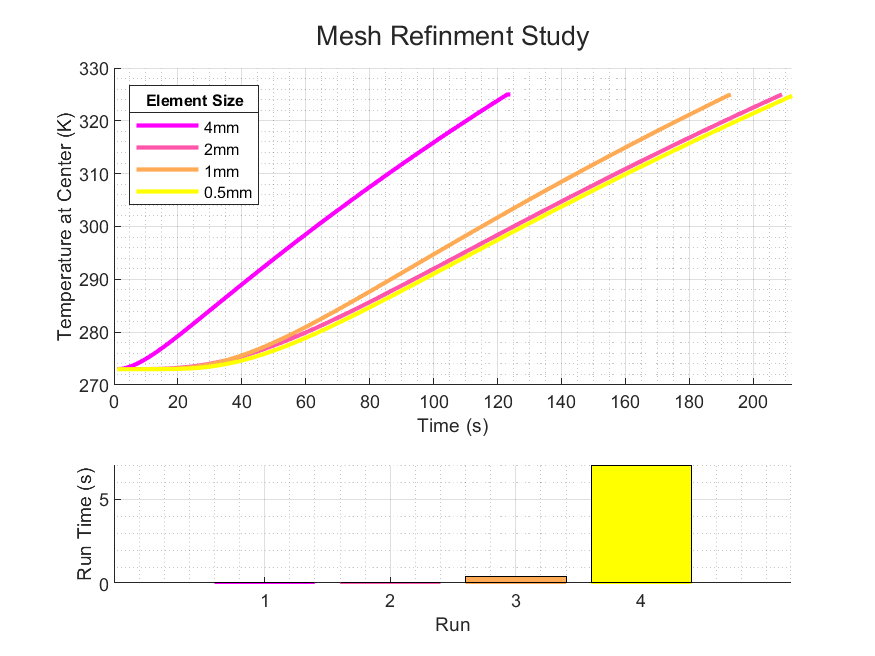
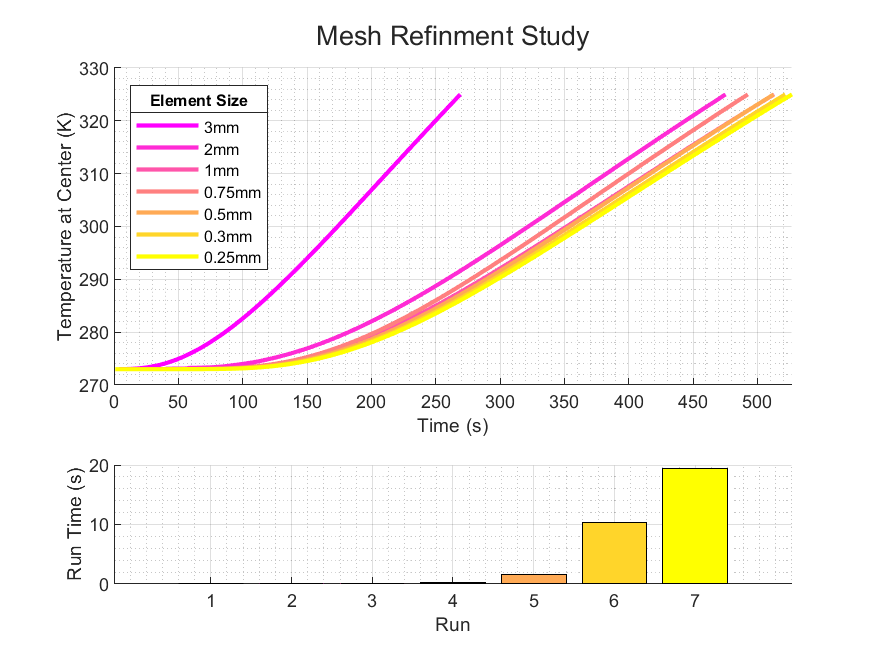
Add new mesh method

diff --git a/ThermalPipe.m b/ThermalPipe.m
@@ -1,12 +1,12 @@
-function [t, test, runtime] = ThermalPipe(element_size)
+function [t, mid_temp, runtime, temp_tensor, num_elements_x, num_elements_y] = ThermalPipe(element_size, width, height, T_0, T_hot, T_cold, bread_thikness)
+
 
 tic;
-t_span = [0:1:1000]; % t is in seconds, give it 25 days
+t_span = [1:1:1000]; % t is in seconds, give it 25 days
 
 % global num_elements_x num_elements_y height width T_hot T_cold dx dy k_matrix; 
 
-width = 10;
-height = 2.5;
+
 
 dx = element_size;
 dy = element_size;
@@ -16,9 +16,7 @@ num_elements_x = int16(width / element_size);
 disp("Num Elements: ")
 disp(num_elements_y * num_elements_x)
     
-T_0 = 273;
-T_hot = 450;
-T_cold = 325;
+
 
 dTdt = zeros(num_elements_x, num_elements_y);
 temps_init = ones(num_elements_x, num_elements_y).*T_0;
@@ -42,11 +40,11 @@ k_cheese = t_cond / rho / c_v;
 
 
 %testing
-k_cheese = 0.001;
+k_cheese = 0.1403;
 
-k_bread = k_cheese * 10;
+k_bread = 0.03874;
 
-bread_thikness = int16(0.3 * num_elements_y);
+
 k_matrix = ones(num_elements_x, num_elements_y).*k_cheese;
 k_matrix(:,1:bread_thikness) = k_bread;
 k_matrix(1:bread_thikness,:) = k_bread;
@@ -54,21 +52,23 @@ k_matrix(1:bread_thikness,:) = k_bread;
 k_matrix(:,end-bread_thikness+1:end) = k_bread;
 k_matrix(end-bread_thikness+1:end,:) = k_bread;
 
-% imagesc(k_matrix)
-% axis equal
+
 
 
 
 
 options = odeset('Events',@EventsFcn);
-[t, temp_tensor, te,ye,ie] = ode113(@simulate_temp, t_span, temps_init, options);
+[t, temp_tensor] = ode113(@simulate_temp, t_span, temps_init, options);
 
-% figure()
-clf
-test = reshape(temp_tensor, length(t), num_elements_x, num_elements_y);
-test = reshape(test(:,num_elements_x/2,num_elements_y/2), 1, length(t));
-% plot(t, test)
+
+
+figure(1)
+hold on
+mid_temp = reshape(temp_tensor, length(t), num_elements_x, num_elements_y);
+mid_temp = reshape(mid_temp(:,num_elements_x/2,num_elements_y/2), 1, length(t));
+plot(t, mid_temp)
 disp("done!")
+runtime = toc;
 
 
 
@@ -106,6 +106,7 @@ temp_frame = reshape(temps, num_elements_x, num_elements_y);
   direction = +1;   % The zero can be approached from either direction
 end
 
-runtime = toc;
+
+
 
 end

diff --git a/mesh_refinment.m b/mesh_refinment.m
@@ -1,13 +1,46 @@
-%mesh refinement
+%animated plot
+width = 100;
+height = 25;
+T_0 = 273;
+T_hot = 450;
+T_cold = 325;
 
 
-mesh_size = [0.4 0.2 0.1 0.05];
+element_size = 0.3; %mm
+dx = element_size;
+dy = element_size;
+num_elements_y = int16(height / element_size);
+num_elements_x = int16(width / element_size);
+bread_thikness = int16(0.3 * num_elements_y);
+
+
+[t, mid_temp, runtime, temp_tensor, num_elements_x, num_elements_y] = ThermalPipe(element_size, width, height, T_0, T_hot, T_cold, bread_thikness);
+max(t)
+
+%%
+
+width = 100;
+height = 25;
+T_0 = 273;
+T_hot = 450;
+T_cold = 325;
+
+
+% mesh refinment
+mesh_size = [3 2 1 0.75 0.5 0.3 0.25];
 test_y = zeros(1000, length(mesh_size));
 test_x = zeros(1000, length(mesh_size));
 for i = 1:length(mesh_size)
-    [t, y, r] = ThermalPipe(mesh_size(i));
-    test_y(i,1:length(t)) = y;
-    test_x (i,1:length(t)) = t;
+    element_size = mesh_size(i)
+    dx = element_size;
+dy = element_size;
+num_elements_y = int16(height / element_size);
+num_elements_x = int16(width / element_size);
+bread_thikness = int16(0.3 * num_elements_y);
+    [t, mid_temp, r] = ThermalPipe(element_size, width, height, T_0, T_hot, T_cold, bread_thikness);
+    max(t)
+    test_y(1:length(t), i) = mid_temp';
+    test_x (1:length(t), i) = t;
     runtime(i) = r;
 
 end
@@ -28,7 +61,7 @@ nexttile([2 2]);
 
 hold on
 for i=1:length(mesh_size)
-    plot(nonzeros(test_y(i,:)), "LineWidth", 2, "DisplayName", num2str(mesh_size(i) * 10) + "mm", "Color", cc(i,:))
+    plot(nonzeros(test_x(:,i)), nonzeros(test_y(:,i)), "LineWidth", 2, "DisplayName", num2str(mesh_size(i)) + "mm", "Color", cc(i,:))
 end
 sgtitle("Mesh Refinment Study")
 xlabel("Time (s)")
@@ -47,7 +80,7 @@ hold on
 for i=1:length(mesh_size)
     bar(i, runtime(i), "FaceColor", cc(i,:))
 end
-xticks([1 2 3 4])
+xticks([1:length(mesh_size)])
 % set(gca,'XScale','log')
 grid on
 grid minor

diff --git a/make_animated_plot.m b/make_animated_plot.m
@@ -1,4 +1,4 @@
-clc
+
 temp_tensor = reshape(temp_tensor, length(t), num_elements_x, num_elements_y);
 
 
@@ -13,7 +13,9 @@ set(gcf, "position", [0 0 600 600])
 subplot(2,1,1)
 hold on
 [xx, yy] = meshgrid(linspace(0, width, num_elements_x), linspace(0, height, num_elements_y));
-[~, s] = contourf(xx', yy', reshape(temp_tensor(1,:,:), num_elements_x, num_elements_y), 150, 'edgecolor', 'none');
+% [~, s] = contourf(xx', yy', reshape(temp_tensor(1,:,:), num_elements_x, num_elements_y), 300, 'edgecolor', 'none');
+s = surf(xx', yy', reshape(temp_tensor(1,:,:), num_elements_x, num_elements_y), 'edgecolor', 'none')
+
 colorbar;
 colormap hot;
 clim([T_0 T_hot])
